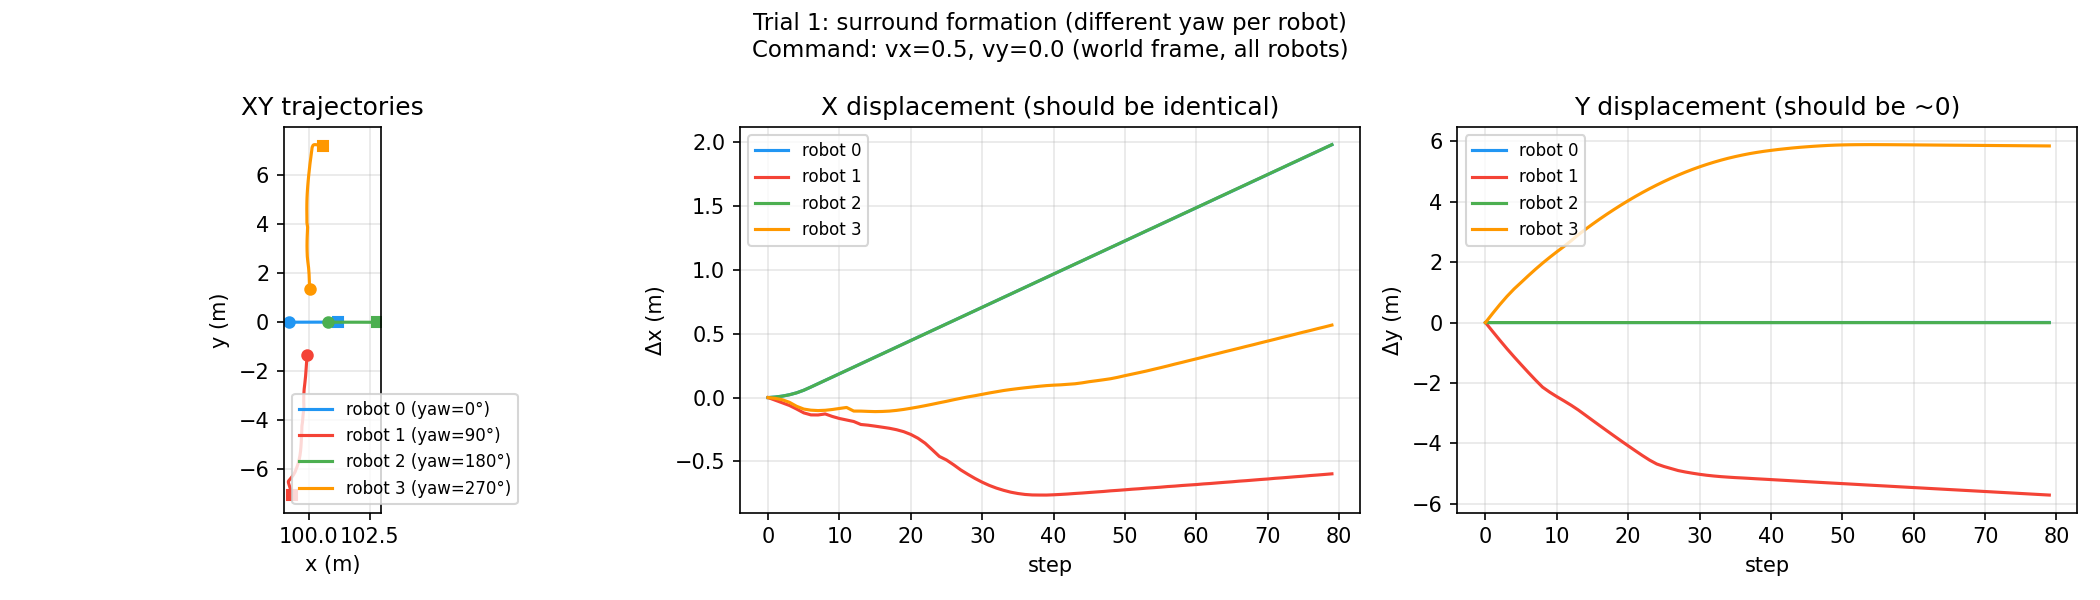
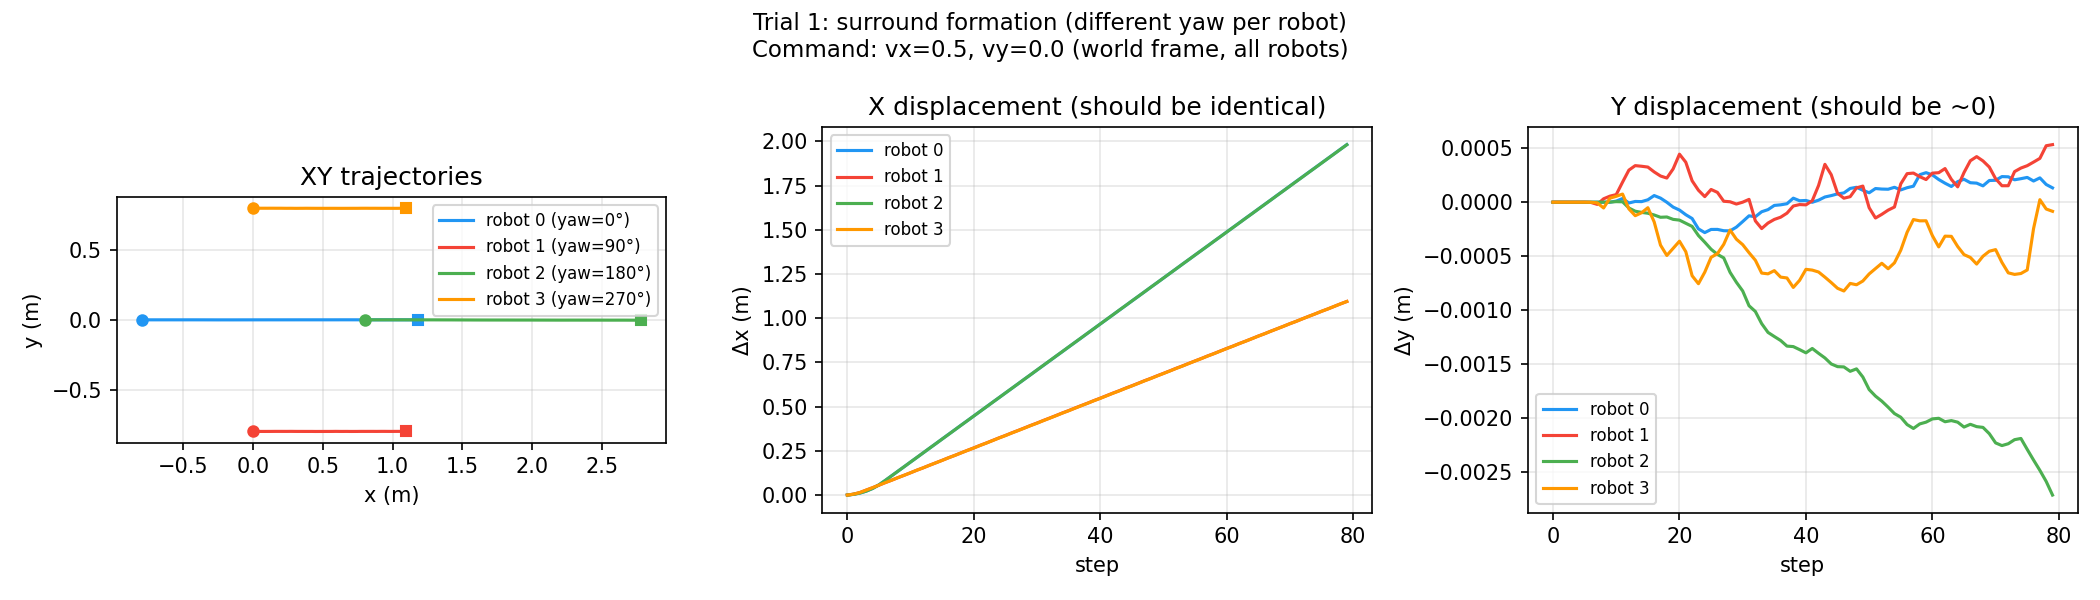
fix: diagnostic test virtually removes payload toy effectively test movement without a payload

diff --git a/experiments/mrcap_fg/diagnose_formation.py b/experiments/mrcap_fg/diagnose_formation.py
@@ -37,14 +37,15 @@ DT_CONTROL = 0.05
 
 
 def make_env(formation, n_robots=N_ROBOTS):
-    """Create env with payload 100 m away so it never interacts."""
+    """Create env with a tiny payload (1 cm box) that can't collide with robots."""
     return MecanumTransportEnv(
         n_robots=n_robots,
         formation=formation,
         goal=(5.0, 0.0, 0.0),
-        payload_pos=(100.0, 0.0),   # payload far away — no contact
+        payload_pos=(0.0, 0.0),
+        payload_size=(0.01, 0.01, 0.01),  # negligible — no contact with robots
         payload_mass=1.0,
-        with_carriage=False,        # bare robots, no fork geometry
+        with_carriage=False,
         dt_control=DT_CONTROL,
     )
 